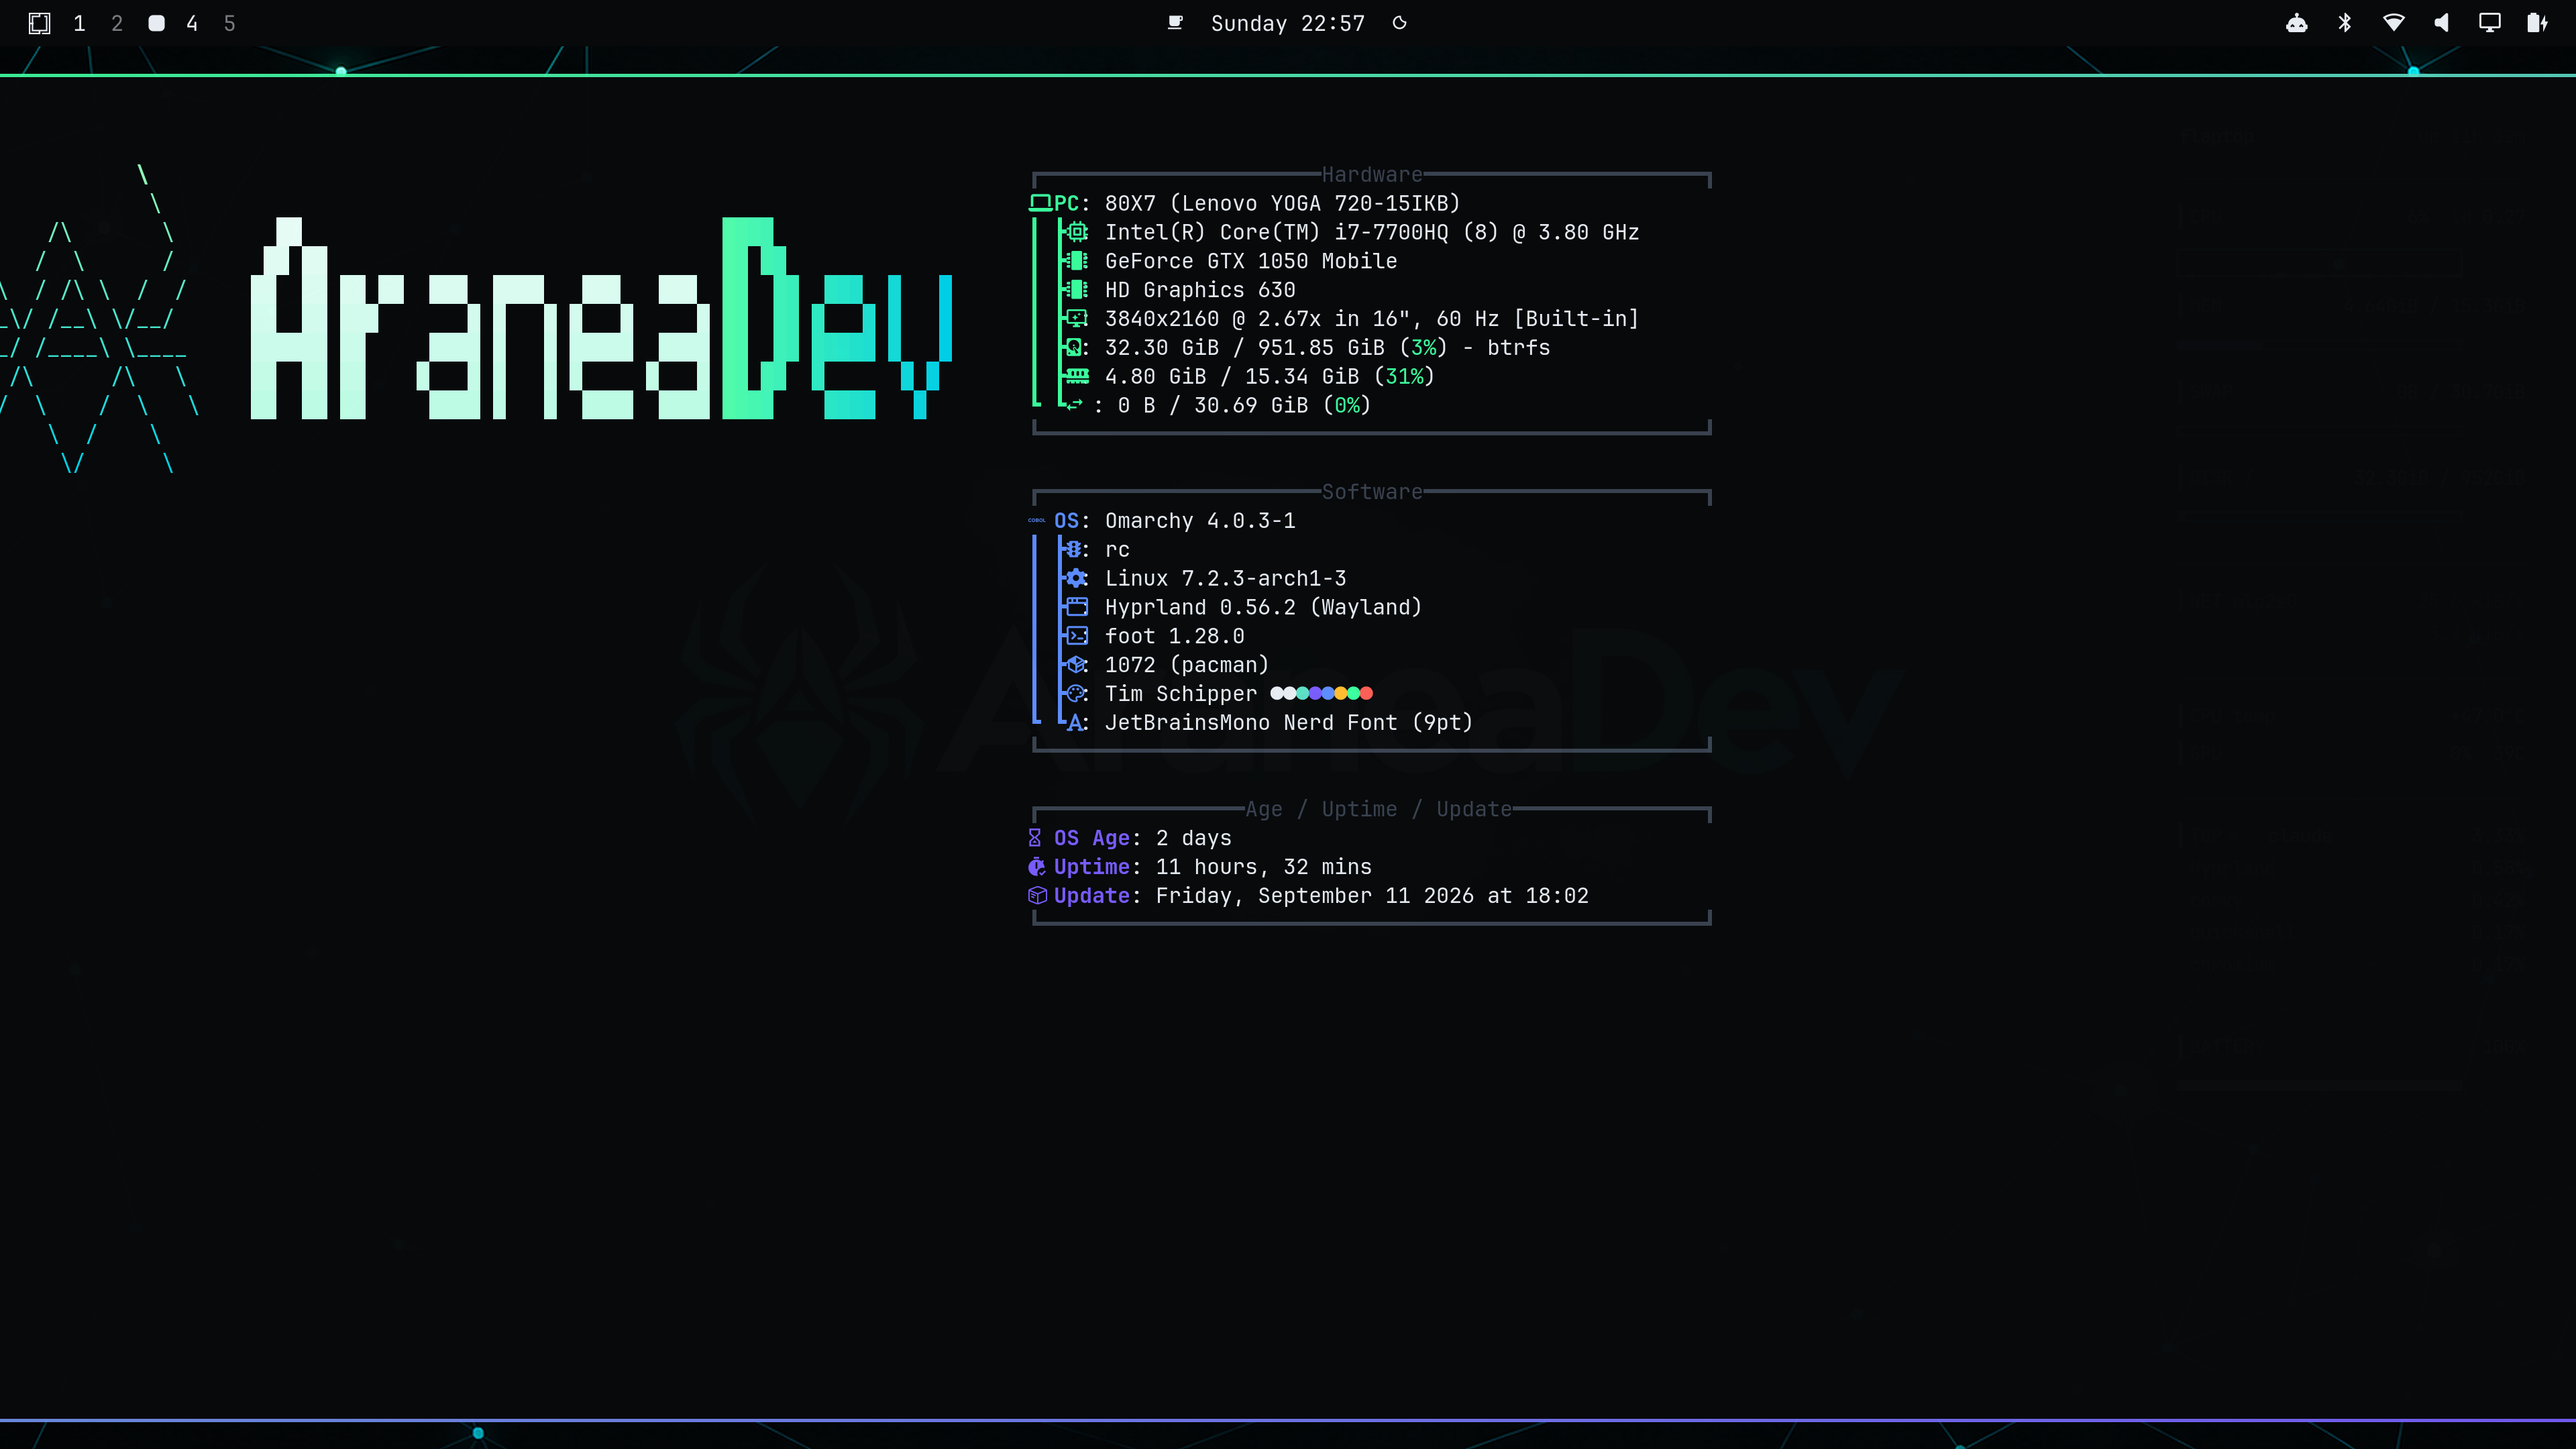
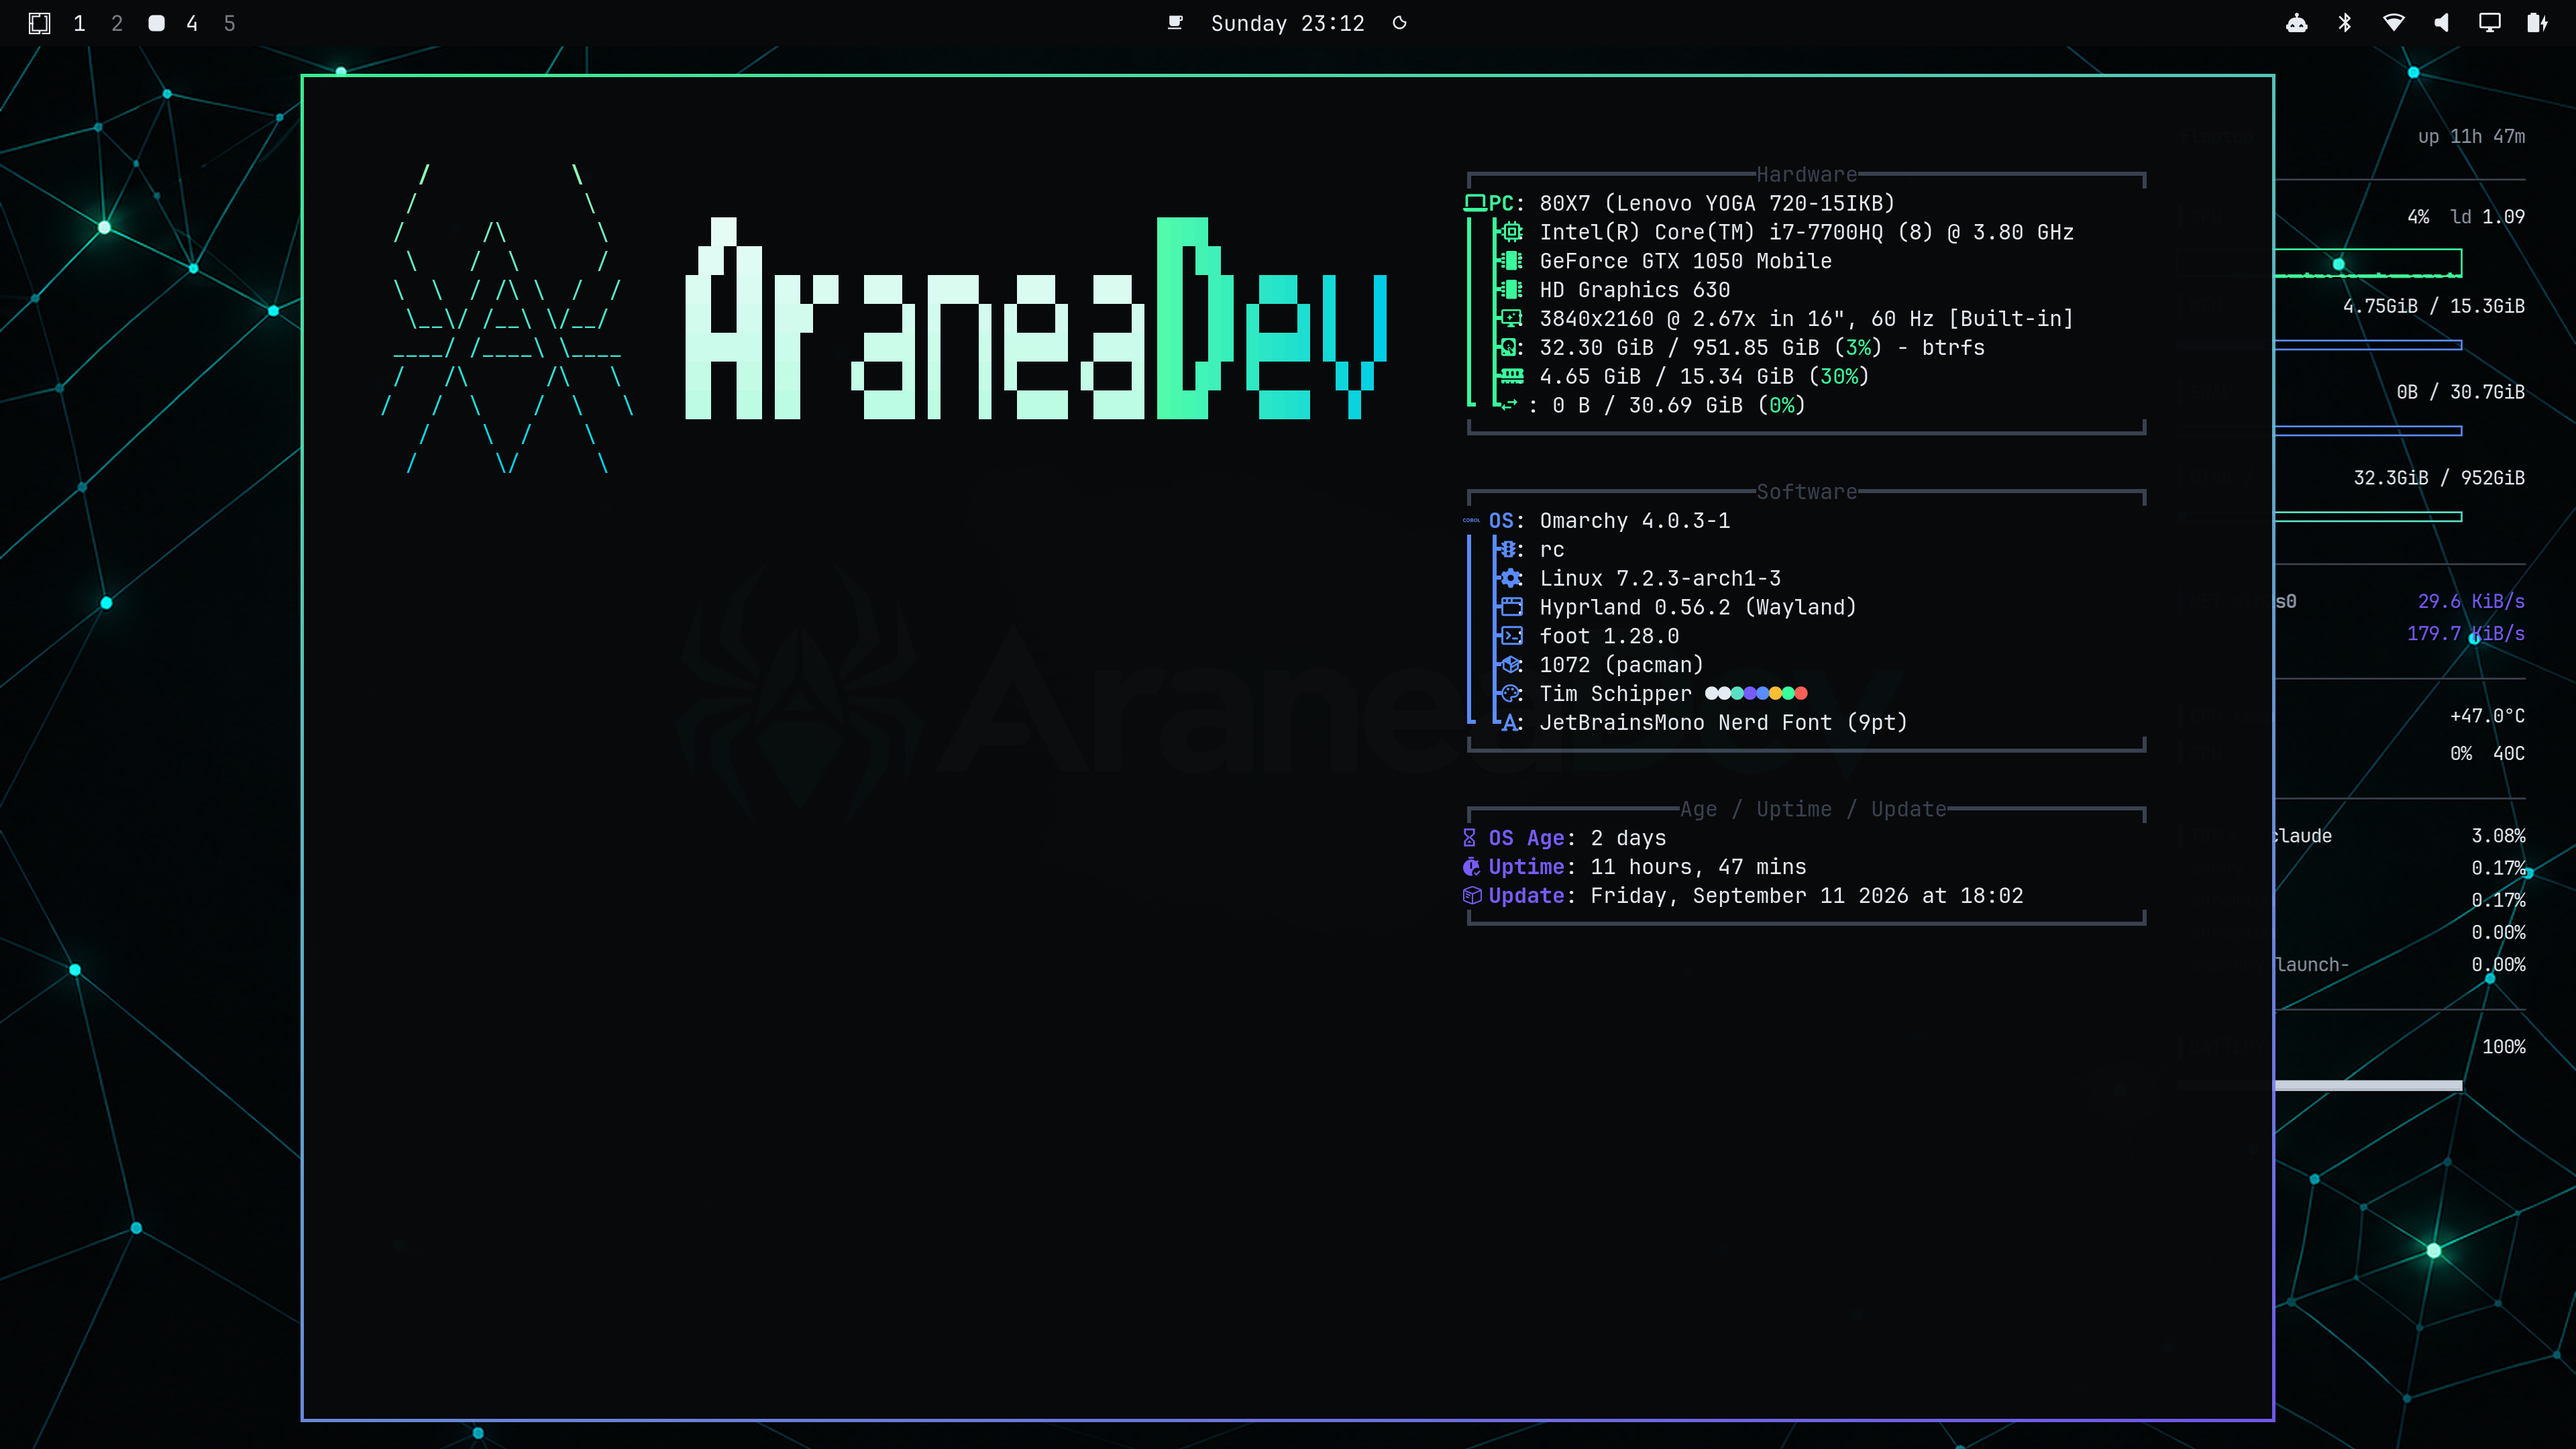
Fix About window size: previous fix was wider than the screen
1586px exceeded this monitor's 1440px logical width, so centering
pushed it partly off-screen — clipping the logo's left edge while
leaving the right side of the window empty. Corrected to 1100x750,
measured by actually screenshotting until nothing clips rather than
trusting the character-grid formula alone.

diff --git a/README.md b/README.md
@@ -57,14 +57,22 @@ your **personal** `~/.config/hypr/hyprland.lua` (window rules aren't part of
 the theme itself):
 
 ```lua
-o.window("org.omarchy.about", { size = { 1586, 750 } })
+o.window("org.omarchy.about", { size = { 1100, 750 } })
 ```
 
-If you customize `branding/about.txt` or `~/.config/fastfetch/config.jsonc`
-further, re-measure: `sed 's/\x1b\[[0-9;?]*[a-zA-Z]//g' branding/about.txt |
-LC_ALL=C.UTF-8 wc -L` for the true logo width (`wc -l` for height), and
-`fastfetch --logo none | sed 's/\x1b\[[0-9;?]*[a-zA-Z]//g'` piped the same
-way for the modules block — then resize/reshoot until nothing clips.
+Measuring this by hand is easy to get wrong in a way that isn't obvious until
+you look closely — a naive character-grid × cell-size calculation
+(`sed 's/\x1b\[[0-9;?]*[a-zA-Z]//g' branding/about.txt | LC_ALL=C.UTF-8 wc -L`
+for the true logo width, `wc -l` for height, same sed trick on
+`fastfetch --logo none` for the modules block) overshot to 1586px here —
+wider than a 1440px-tall-scaled monitor — which centers the window partly
+*off-screen*: the logo's left edge gets clipped by the physical screen edge
+while the right side of the window sits on empty space, which reads as "the
+content is cut off and there's a pile of whitespace" rather than "the window
+is simply too wide." If you customize the logo or fastfetch config, resize in
+small steps and screenshot after each one rather than trusting a formula —
+confirm both edges of every box are visible *and* the window fits inside your
+monitor's logical resolution (`hyprctl monitors -j`, width ÷ scale).
 
 ![About window, fixed](preview-about.png)
 
